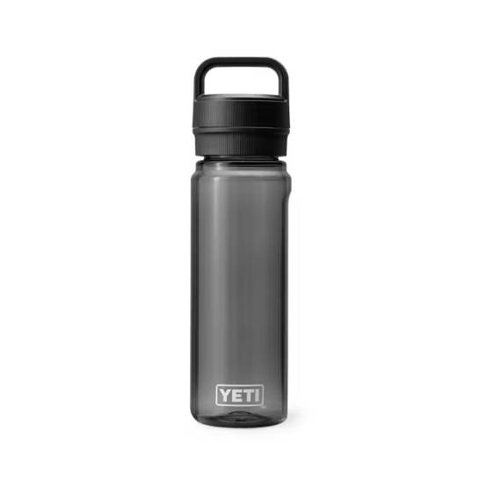
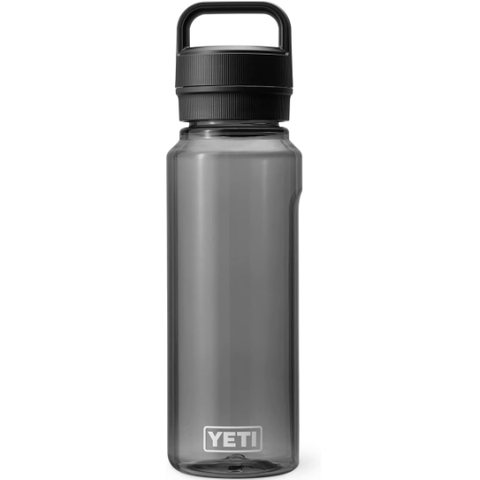
Swap YETI bottle for the 1 L Amazon listing
Claude-Session: https://claude.ai/code/session_01DVLxHJta9TaYUn9n6QGdu7

Changed region(s): [[0.3438, 0.0, 0.6562, 1.0]]

diff --git a/index.html b/index.html
@@ -160,7 +160,7 @@ footer{color:var(--muted);font-size:14px;border-top:1px solid var(--line);margin
 <script>
 {
 const USD = 1.40; // rough rate, used only for sorting and the ≈ C$ hint
-const ITEMS = [{"id": "breadbox", "name": "Tower Bread Box (Steel)", "detail": "Yamazaki Home · colour: Black", "price": 205.0, "cur": "CAD", "cat": "Kitchen & Coffee", "url": "https://theyamazakihome.com/en-ca/products/tower-bread-box?variant=31351750164567"}, {"id": "homeview", "name": "Apple HomeView", "detail": "Apple · Space Grey", "price": 429.0, "cur": "CAD", "cat": "Tech", "url": "https://www.apple.com/ca/shop/buy-home/apple-homeview/apple-homeview-space-gray"}, {"id": "picpak", "name": "PicPak Mini E-Ink Album, 3-pack", "detail": "Pick the 3-Pack, one of each colour (black, blue, red)", "price": 179.0, "cur": "USD", "cat": "Tech", "url": "https://www.picpak.tech/products/pocket-size-e-ink-album"}, {"id": "stickerpix", "name": "Cricut StickerPix Print + Cut", "detail": "Powder Blue · Essential Bundle", "price": 349.0, "cur": "CAD", "cat": "Tech", "url": "https://cricut.com/en-ca/sticker-machines/cricut-stickerpix-print-cut/cricut-stickerpix-print-cut-powder-blue-essential-bundle/2013409.html"}, {"id": "yeti", "name": "YETI Yonder Water Bottle", "detail": "750 mL · colour: Charcoal", "price": 34.0, "cur": "CAD", "cat": "Bags & Gear", "url": "https://www.yeti.ca/drinkware/bottles/70000001099.html"}, {"id": "stonington", "name": "Stonington Daily Carry Tote", "detail": "L.L.Bean", "price": 162.0, "cur": "CAD", "cat": "Bags & Gear", "url": "https://www.llbean.ca/llb/shop/126027.html"}, {"id": "shirtjac", "name": "Men's Signature Jacquard Shirt Jac", "detail": "L.L.Bean · colour: Deep Rosewood · size: Large", "price": 245.0, "cur": "CAD", "cat": "Clothing", "url": "https://www.llbean.ca/llb/shop/5866802.html"}, {"id": "mariner", "name": "Men's Mariner Sweatshirt", "detail": "L.L.Bean · size: Large", "price": 145.0, "cur": "CAD", "cat": "Clothing", "url": "https://www.llbean.ca/llb/shop/5826649.html"}, {"id": "twill", "name": "Men's Signature Fisherman Twill Shirt", "detail": "L.L.Bean · colour: Thyme · size: Large", "price": 145.0, "cur": "CAD", "cat": "Clothing", "url": "https://www.llbean.ca/llb/shop/5866768.html"}, {"id": "blanket", "name": "Fleece Wearable Blanket with Sleeves", "detail": "YUGYVOB · Brown, Large", "price": 35.99, "cur": "CAD", "cat": "Clothing", "url": "https://www.amazon.ca/dp/B0FJFLHWND"}, {"id": "transformers", "name": "Transformers", "detail": "4K UHD + Blu-ray", "price": 35.88, "cur": "CAD", "cat": "Movies", "url": "https://www.amazon.ca/dp/B076BK4DFL"}, {"id": "horizon", "name": "Horizon Zero Dawn Remastered", "detail": "PS5", "price": 55.73, "cur": "CAD", "cat": "Video Games", "url": "https://www.amazon.ca/dp/B0DJ7W2WXV"}, {"id": "007", "name": "007 First Light – Specialist Edition", "detail": "PS5", "price": 89.99, "cur": "CAD", "cat": "Video Games", "url": "https://www.amazon.ca/dp/B0FBHCYKXX"}, {"id": "darkknight", "name": "The Dark Knight Trilogy", "detail": "4K UHD + Blu-ray", "price": 44.98, "cur": "CAD", "cat": "Movies", "url": "https://www.amazon.ca/dp/B0774D6HBB"}, {"id": "odyssey", "name": "The Odyssey (2026)", "detail": "4K UHD Blu-ray", "price": 34.99, "cur": "CAD", "cat": "Movies", "url": "https://www.amazon.ca/dp/B0HMXD5W7K"}, {"id": "twisters", "name": "Twisters Double Feature Steelbook", "detail": "4K UHD · Limited Edition", "price": 34.98, "cur": "CAD", "cat": "Movies", "url": "https://www.amazon.ca/dp/B0FG9TKT9J"}, {"id": "endgame", "name": "Avengers: Endgame", "detail": "4K UHD + Blu-ray + Digital", "price": 32.99, "cur": "CAD", "cat": "Movies", "url": "https://www.amazon.ca/dp/B07R4479C1"}, {"id": "infinitywar", "name": "Avengers: Infinity War", "detail": "4K UHD + Blu-ray + Digital (Bilingual)", "price": 34.99, "cur": "CAD", "cat": "Movies", "url": "https://www.amazon.ca/dp/B07CBLSGQX"}, {"id": "lotr", "name": "The Lord of the Rings Trilogy", "detail": "Extended & Theatrical · 4K UHD", "price": 69.06, "cur": "CAD", "cat": "Movies", "url": "https://www.amazon.ca/dp/B08KQBYM1Y"}, {"id": "df54", "name": "DF54 Single Dose Espresso Grinder", "detail": "Black", "price": 328.88, "cur": "CAD", "cat": "Kitchen & Coffee", "url": "https://www.amazon.ca/dp/B0DBD96WHL"}, {"id": "butterbell", "name": "Butter Bell Crock", "detail": "French ceramic butter keeper · blue trim", "price": 46.95, "cur": "CAD", "cat": "Kitchen & Coffee", "url": "https://www.amazon.ca/dp/B000FBL3IC"}, {"id": "patchwork", "name": "Patchwork", "detail": "10th Anniversary Edition · 2-player board game", "price": 54.99, "cur": "CAD", "cat": "Board Games", "url": "https://www.amazon.ca/dp/B0DK6ZZR94"}, {"id": "lotr-duel", "name": "The Lord of the Rings: Duel for Middle-earth", "detail": "2-player board game · Repos / Asmodee", "price": 27.62, "cur": "CAD", "cat": "Board Games", "url": "https://www.amazon.ca/dp/B0DFF3V1Q7"}, {"id": "agent-avenue", "name": "Agent Avenue", "detail": "2-player bluffing card game · Nerdlab Games", "price": 50.31, "cur": "CAD", "cat": "Board Games", "url": "https://www.amazon.ca/dp/B0FF2DFXTD"}];
+const ITEMS = [{"id": "breadbox", "name": "Tower Bread Box (Steel)", "detail": "Yamazaki Home · colour: Black", "price": 205.0, "cur": "CAD", "cat": "Kitchen & Coffee", "url": "https://theyamazakihome.com/en-ca/products/tower-bread-box?variant=31351750164567"}, {"id": "homeview", "name": "Apple HomeView", "detail": "Apple · Space Grey", "price": 429.0, "cur": "CAD", "cat": "Tech", "url": "https://www.apple.com/ca/shop/buy-home/apple-homeview/apple-homeview-space-gray"}, {"id": "picpak", "name": "PicPak Mini E-Ink Album, 3-pack", "detail": "Pick the 3-Pack, one of each colour (black, blue, red)", "price": 179.0, "cur": "USD", "cat": "Tech", "url": "https://www.picpak.tech/products/pocket-size-e-ink-album"}, {"id": "stickerpix", "name": "Cricut StickerPix Print + Cut", "detail": "Powder Blue · Essential Bundle", "price": 349.0, "cur": "CAD", "cat": "Tech", "url": "https://cricut.com/en-ca/sticker-machines/cricut-stickerpix-print-cut/cricut-stickerpix-print-cut-powder-blue-essential-bundle/2013409.html"}, {"id": "yeti", "name": "YETI Yonder Water Bottle", "detail": "1 L with Yonder Chug Cap · colour: Charcoal", "price": 38.0, "cur": "CAD", "cat": "Bags & Gear", "url": "https://www.amazon.ca/dp/B0BTTW1GJK"}, {"id": "stonington", "name": "Stonington Daily Carry Tote", "detail": "L.L.Bean", "price": 162.0, "cur": "CAD", "cat": "Bags & Gear", "url": "https://www.llbean.ca/llb/shop/126027.html"}, {"id": "shirtjac", "name": "Men's Signature Jacquard Shirt Jac", "detail": "L.L.Bean · colour: Deep Rosewood · size: Large", "price": 245.0, "cur": "CAD", "cat": "Clothing", "url": "https://www.llbean.ca/llb/shop/5866802.html"}, {"id": "mariner", "name": "Men's Mariner Sweatshirt", "detail": "L.L.Bean · size: Large", "price": 145.0, "cur": "CAD", "cat": "Clothing", "url": "https://www.llbean.ca/llb/shop/5826649.html"}, {"id": "twill", "name": "Men's Signature Fisherman Twill Shirt", "detail": "L.L.Bean · colour: Thyme · size: Large", "price": 145.0, "cur": "CAD", "cat": "Clothing", "url": "https://www.llbean.ca/llb/shop/5866768.html"}, {"id": "blanket", "name": "Fleece Wearable Blanket with Sleeves", "detail": "YUGYVOB · Brown, Large", "price": 35.99, "cur": "CAD", "cat": "Clothing", "url": "https://www.amazon.ca/dp/B0FJFLHWND"}, {"id": "transformers", "name": "Transformers", "detail": "4K UHD + Blu-ray", "price": 35.88, "cur": "CAD", "cat": "Movies", "url": "https://www.amazon.ca/dp/B076BK4DFL"}, {"id": "horizon", "name": "Horizon Zero Dawn Remastered", "detail": "PS5", "price": 55.73, "cur": "CAD", "cat": "Video Games", "url": "https://www.amazon.ca/dp/B0DJ7W2WXV"}, {"id": "007", "name": "007 First Light – Specialist Edition", "detail": "PS5", "price": 89.99, "cur": "CAD", "cat": "Video Games", "url": "https://www.amazon.ca/dp/B0FBHCYKXX"}, {"id": "darkknight", "name": "The Dark Knight Trilogy", "detail": "4K UHD + Blu-ray", "price": 44.98, "cur": "CAD", "cat": "Movies", "url": "https://www.amazon.ca/dp/B0774D6HBB"}, {"id": "odyssey", "name": "The Odyssey (2026)", "detail": "4K UHD Blu-ray", "price": 34.99, "cur": "CAD", "cat": "Movies", "url": "https://www.amazon.ca/dp/B0HMXD5W7K"}, {"id": "twisters", "name": "Twisters Double Feature Steelbook", "detail": "4K UHD · Limited Edition", "price": 34.98, "cur": "CAD", "cat": "Movies", "url": "https://www.amazon.ca/dp/B0FG9TKT9J"}, {"id": "endgame", "name": "Avengers: Endgame", "detail": "4K UHD + Blu-ray + Digital", "price": 32.99, "cur": "CAD", "cat": "Movies", "url": "https://www.amazon.ca/dp/B07R4479C1"}, {"id": "infinitywar", "name": "Avengers: Infinity War", "detail": "4K UHD + Blu-ray + Digital (Bilingual)", "price": 34.99, "cur": "CAD", "cat": "Movies", "url": "https://www.amazon.ca/dp/B07CBLSGQX"}, {"id": "lotr", "name": "The Lord of the Rings Trilogy", "detail": "Extended & Theatrical · 4K UHD", "price": 69.06, "cur": "CAD", "cat": "Movies", "url": "https://www.amazon.ca/dp/B08KQBYM1Y"}, {"id": "df54", "name": "DF54 Single Dose Espresso Grinder", "detail": "Black", "price": 328.88, "cur": "CAD", "cat": "Kitchen & Coffee", "url": "https://www.amazon.ca/dp/B0DBD96WHL"}, {"id": "butterbell", "name": "Butter Bell Crock", "detail": "French ceramic butter keeper · blue trim", "price": 46.95, "cur": "CAD", "cat": "Kitchen & Coffee", "url": "https://www.amazon.ca/dp/B000FBL3IC"}, {"id": "patchwork", "name": "Patchwork", "detail": "10th Anniversary Edition · 2-player board game", "price": 54.99, "cur": "CAD", "cat": "Board Games", "url": "https://www.amazon.ca/dp/B0DK6ZZR94"}, {"id": "lotr-duel", "name": "The Lord of the Rings: Duel for Middle-earth", "detail": "2-player board game · Repos / Asmodee", "price": 27.62, "cur": "CAD", "cat": "Board Games", "url": "https://www.amazon.ca/dp/B0DFF3V1Q7"}, {"id": "agent-avenue", "name": "Agent Avenue", "detail": "2-player bluffing card game · Nerdlab Games", "price": 50.31, "cur": "CAD", "cat": "Board Games", "url": "https://www.amazon.ca/dp/B0FF2DFXTD"}];
 const store = u => { const h = new URL(u).hostname.replace(/^www\./,'');
   return ({'amazon.ca':'Amazon.ca','llbean.ca':'L.L.Bean','apple.com':'Apple','cricut.com':'Cricut','yeti.ca':'YETI','picpak.tech':'PicPak','theyamazakihome.com':'Yamazaki Home'})[h] || h; };
 const cad = it => it.price == null ? null : (it.cur === 'USD' ? it.price * USD : it.price);
